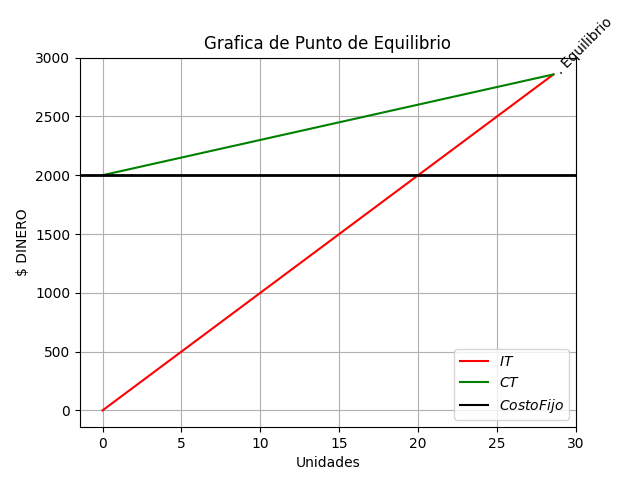
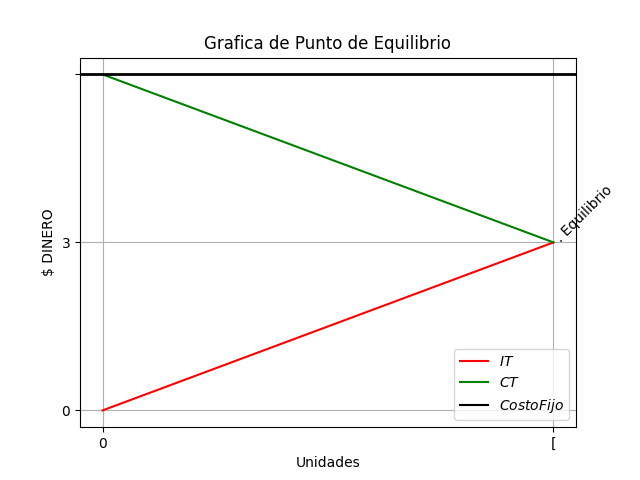
avance graficas

diff --git a/Templates/procesos/utilidad_grafica.html b/Templates/procesos/utilidad_grafica.html
@@ -1,0 +1,26 @@
+<!DOCTYPE html>
+<html lang="en">
+<head>
+    <meta charset="UTF-8">
+    <meta http-equiv="X-UA-Compatible" content="IE=edge">
+    <meta name="viewport" content="width=device-width, initial-scale=1.0">
+    <title>Document</title>
+    <script src="https://kit.fontawesome.com/ecb64cea68.js" crossorigin="anonymous"></script>
+    <link href="https://cdn.jsdelivr.net/npm/bootstrap@5.0.2/dist/css/bootstrap.min.css" rel="stylesheet" integrity="sha384-EVSTQN3/azprG1Anm3QDgpJLIm9Nao0Yz1ztcQTwFspd3yD65VohhpuuCOmLASjC" crossorigin="anonymous">
+    <link rel="stylesheet" href="static/css/style.css"/>
+</head>
+<body>
+
+    
+    <div class="row">
+        <div class="container-fluid col-12">
+            <p>{{url}}</p>
+            <img src= {{url}} alt="no hay" >
+        </div>
+    </div>
+     
+    
+    
+</body>
+<script src="https://cdn.jsdelivr.net/npm/bootstrap@5.0.2/dist/js/bootstrap.bundle.min.js" integrity="sha384-MrcW6ZMFYlzcLA8Nl+NtUVF0sA7MsXsP1UyJoMp4YLEuNSfAP+JcXn/tWtIaxVXM" crossorigin="anonymous"></script>
+</html>

diff --git a/Templates/procesos/Utilidad.html b/Templates/procesos/Utilidad.html
@@ -77,7 +77,13 @@
 
         <div class="row">
             <div class=" col-12 col-lg-12 mt-5 ">
-                {{url}}
+                {%if calculo%}
+                    <a href="{{url_for('graficas', lista=calculo )}}" class="btn btn-outline-primary w-100 rounded-pill">Ver Grafica</a>
+                {%endif%}
+                
+                
+                
+               
             </div>
         </div>
         

diff --git a/app.py b/app.py
@@ -42,6 +42,7 @@ import os
 correo=""
 po=""
 lista=[]
+lista2=[]
 valores=""
 grafica=""
 app=Flask(__name__,template_folder="Templates")
@@ -212,6 +213,8 @@ def UTILIDAD():
     global valores
     email=correo
     global lista
+    global lista2
+    lista2=[]
     global grafica
     grafica=""
     lista=[]
@@ -227,6 +230,7 @@ def UTILIDAD():
         calculo=Equilibrio(precio_venta,costo_variable,costo_fijo).proceso()
         
         lista=calculo
+        lista2=[calculo]
         r_equilibrio =calculo[0]
         r_venta=calculo[1]
         r_costo_variable=calculo[2]
@@ -236,12 +240,22 @@ def UTILIDAD():
         insertar_Utilidad(precio_venta,costo_variable,costo_fijo,r_equilibrio,r_venta,r_costo_variable,r_margen,r_utilidad,tiempo_C,email)
         valores=obtener_datos_Utilidad(email)
 
-        grafica=Equilibrio(precio_venta,costo_variable,costo_fijo).graficar(lista,email)
-        print(grafica)
+    return render_template("procesos/Utilidad.html",form=form ,calculo=lista2 , lista=valores )
 
-        
 
-    return render_template("procesos/Utilidad.html",form=form ,calculo=lista , lista=valores, url=grafica)
+@app.route("/ver_grafica/<lista>", methods=["GET","POST"])
+def graficas(lista):
+    print(lista)
+    global correo
+    email=correo
+
+
+    grafica=Equilibrio().graficar(lista,email)
+    
+
+    return redirect(url_for('UTILIDAD')) 
+
+
 
 @app.route("/obtener_valor_id_bor/<int:id>", methods=["GET","POST"])
 def obtenervalorborrarU(id):

diff --git a/funciones/clases.py b/funciones/clases.py
@@ -61,7 +61,7 @@ class MetodoDelGasto():
 
 
 class Equilibrio():
-    def __init__(self,p,cv,cf):
+    def __init__(self,p="",cv="",cf=""):
         self.__p=p
         self.__cv=cv
         self.__cf=cf
@@ -107,11 +107,12 @@ class Equilibrio():
     
         
         plt.text(equilibrio,It,". Equilibrio",rotation=45)
-        plt.savefig('static/graficas/'+correo+"/plot.png")
-        url='static/graficas/'+correo+"/plot.png"
+        plt.show()
+        #plt.savefig('static/graficas/'+correo+"/plot.png")
+        #url='static/graficas/'+correo+"/plot.png"
         
 
-        return url
+        #return url
         
 
 

diff --git a/claseforms.py b/claseforms.py
@@ -85,4 +85,3 @@ class Utilidad(FlaskForm):
 
     botoncalcular=SubmitField("CALCULAR")
 
-
